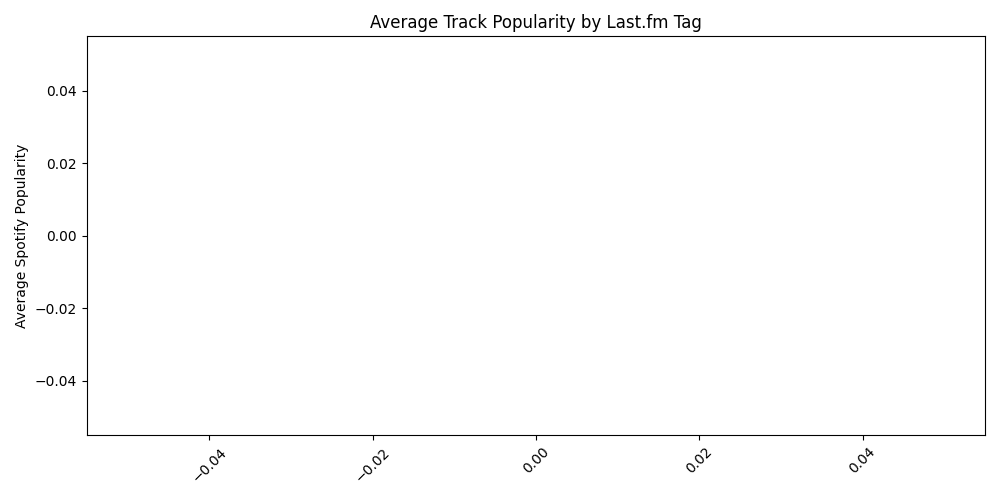
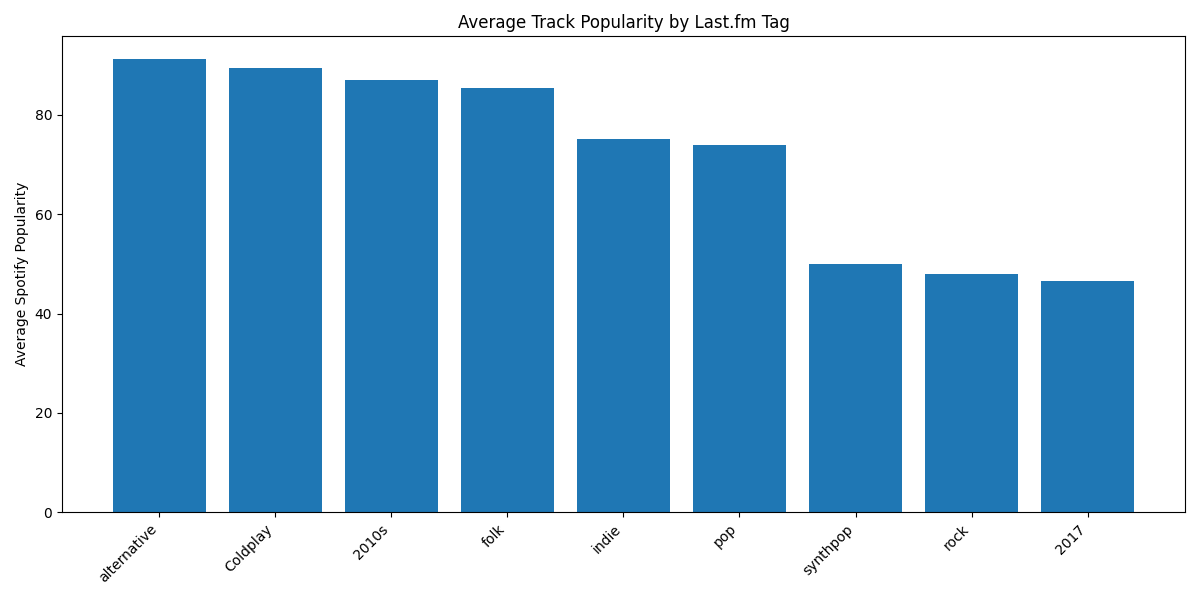
working version 2

diff --git a/api.py b/api.py
@@ -4,6 +4,7 @@ import spotipy
 from spotipy.oauth2 import SpotifyClientCredentials
 import matplotlib.pyplot as plt
 import os
+import urllib.parse
 
 from database import get_connection
 
@@ -72,34 +73,58 @@ def gather_lastfm_data(limit=25):
     conn = get_connection()
     cur = conn.cursor()
 
-    cur.execute("SELECT id, name FROM Tracks LIMIT 1")
-    track_id, name = cur.fetchone()
+    # Get tracks with artist names
+    cur.execute("""
+        SELECT Tracks.id, Tracks.name, Artists.name
+        FROM Tracks
+        JOIN Artists ON Tracks.artist_id = Artists.id
+        LIMIT ?
+    """, (limit,))
 
-    url = (
-        "http://ws.audioscrobbler.com/2.0/"
-        f"?method=track.gettoptags&track={name}"
-        f"&api_key={LASTFM_API_KEY}&format=json"
-    )
+    tracks = cur.fetchall()
+    inserted = 0
 
-    tags = requests.get(url).json().get("toptags", {}).get("tag", [])
+    for track_id, track_name, artist_name in tracks:
+        # URL-encode names to handle spaces/special chars
+        track_q = urllib.parse.quote(track_name)
+        artist_q = urllib.parse.quote(artist_name)
 
-    for tag in tags[:limit]:
-        cur.execute("""
-            INSERT INTO TrackTags (track_id, tag, tag_count)
-            VALUES (?, ?, ?)
-        """, (track_id, tag["name"], int(tag["count"])))
+        url = (
+            "http://ws.audioscrobbler.com/2.0/"
+            f"?method=track.gettoptags"
+            f"&track={track_q}"
+            f"&artist={artist_q}"
+            f"&api_key={LASTFM_API_KEY}"
+            f"&format=json"
+        )
+
+        response = requests.get(url)
+        data = response.json()
+
+        tags = data.get("toptags", {}).get("tag", [])
+
+        for tag in tags[:3]:  # limit tags per track
+            if "name" in tag:
+                cur.execute("""
+                    INSERT INTO TrackTags (track_id, tag, tag_count)
+                    VALUES (?, ?, ?)
+                """, (
+                    track_id,
+                    tag["name"],
+                    int(tag.get("count", 0))
+                ))
+                inserted += 1
 
     conn.commit()
     conn.close()
 
+    print(f"Inserted {inserted} Last.fm tags")
+
+
+
 # GENIUS
 
 def gather_genius_data(limit=25):
-<<<<<<< HEAD
-    print("TODO: implement Genius")
-    pass
-#hello
-=======
     conn = get_connection()
     cur = conn.cursor()
 
@@ -138,41 +163,45 @@ def process_data():
     cur = conn.cursor()
 
     rows = cur.execute("""
-        SELECT TrackTags.tag, AVG(Tracks.popularity)
+        SELECT TrackTags.tag, AVG(Tracks.popularity) AS avg_popularity
         FROM Tracks
         JOIN TrackTags ON Tracks.id = TrackTags.track_id
         GROUP BY TrackTags.tag
+        HAVING COUNT(*) > 1
+        ORDER BY avg_popularity DESC
     """).fetchall()
 
     os.makedirs("output", exist_ok=True)
 
     with open("output/calculations.txt", "w") as f:
         for tag, avg_pop in rows:
-            f.write(f"{tag}: {avg_pop}\n")
+            f.write(f"{tag}: {round(avg_pop, 2)}\n")
 
     conn.close()
 
 
-# VISUALIZATION
 
+# VISUALIZATION
 
 def create_visualizations():
     conn = get_connection()
     cur = conn.cursor()
 
     rows = cur.execute("""
-        SELECT TrackTags.tag, AVG(Tracks.popularity)
+        SELECT TrackTags.tag, AVG(Tracks.popularity) AS avg_popularity
         FROM Tracks
         JOIN TrackTags ON Tracks.id = TrackTags.track_id
         GROUP BY TrackTags.tag
+        HAVING COUNT(*) > 1
+        ORDER BY avg_popularity DESC
     """).fetchall()
 
     tags = [r[0] for r in rows]
     values = [r[1] for r in rows]
 
-    plt.figure(figsize=(10, 5))
+    plt.figure(figsize=(12, 6))
     plt.bar(tags, values)
-    plt.xticks(rotation=45)
+    plt.xticks(rotation=45, ha="right")
     plt.ylabel("Average Spotify Popularity")
     plt.title("Average Track Popularity by Last.fm Tag")
     plt.tight_layout()
@@ -180,4 +209,3 @@ def create_visualizations():
     plt.close()
 
     conn.close()
->>>>>>> ba36563 (working version 1)
